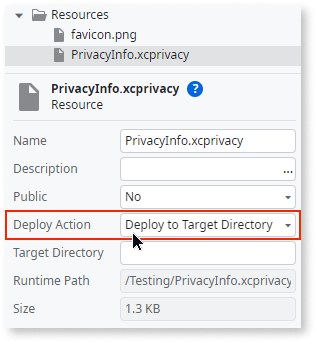
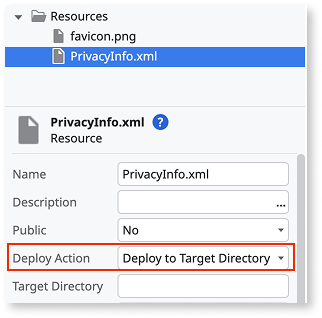
TK-19016 RDMR-1073: update privacy manifest docs to use a different file type

Changed region(s): [[0.0, 0.4811, 0.9684, 0.9623], [0.0, 0.0283, 0.9684, 0.4528]]

diff --git a/src/deploying-apps/mobile-app-packaging-delivery/generate-distribute-mobile-app/privacy-updates-for-apple-app-store-submissions.md b/src/deploying-apps/mobile-app-packaging-delivery/generate-distribute-mobile-app/privacy-updates-for-apple-app-store-submissions.md
@@ -24,7 +24,7 @@ Your app or third-party SDK must declare one or more approved reasons that accur
 
 ## Privacy manifest file
 
-You must provide a PrivacyInfo.xcprivacy file in your OutSystems app, where the APIs used are detailed. Provided is a default file that can be used. Ensure you've installed a new app build after adding the privacy manifest file.
+You must provide a privacy manifest in your OutSystems app, where the APIs used are detailed. Provided is a default file that can be used. Ensure you've installed a new app build after adding the privacy manifest file.
 
      <?xml version="1.0" encoding="UTF-8"?>
      <!DOCTYPE plist PUBLIC "-//Apple//DTD PLIST 1.0//EN" "http://www.apple.com/DTDs/PropertyList-1.0.dtd">
@@ -76,7 +76,7 @@ You must provide a PrivacyInfo.xcprivacy file in your OutSystems app, where the 
 
 ## Providing a privacy manifest file for a File plugin
 
-When you use a File plugin, you must include a PrivacyInfo.xcprivacy file in your OutSystems app.
+When you use a File plugin, you must include a privacy manifest in your OutSystems app.
 
 The following table contains the required key and recommended reason value for this plugin:
 
@@ -122,11 +122,11 @@ In Service Studio add and upload the privacy manifest file:
 
 1. In the **Data** tab, add the file to **Resources**. Right-click and select **Import Resource**. Select your file.
 
-1. Set the name to `PrivacyInfo.xcprivacy`
+1. Set the name to `PrivacyInfo.xml`
 
 1. Ensure that the **Deploy Action** attribute of the **Resource** property is set to `Deploy to Target Directory`.
 
-    ![Service Studio showing how to add a PrivacyInfo.xcprivacy file to the Resources.](images/privacy-info-file-ss.png "Adding Privacy Manifest File in OutSystems Service Studio")
+    ![Service Studio showing how to add a privacy manifest to the Resources.](images/privacy-info-file-ss.png "Adding Privacy Manifest File in OutSystems Service Studio")
 
 1. In the **Logic** tab, select your app icon. In the **Advanced** section, click on **Extensibility Configurations.**
 
@@ -137,7 +137,7 @@ In Service Studio add and upload the privacy manifest file:
     "resources": {
             "ios": {
                 "Thekeyoftheresource": {
-                    "src": "www/PrivacyInfo.xcprivacy",
+                    "src": "www/PrivacyInfo.xml",
                     "target": "PrivacyInfo.xcprivacy"
                 }
             }
